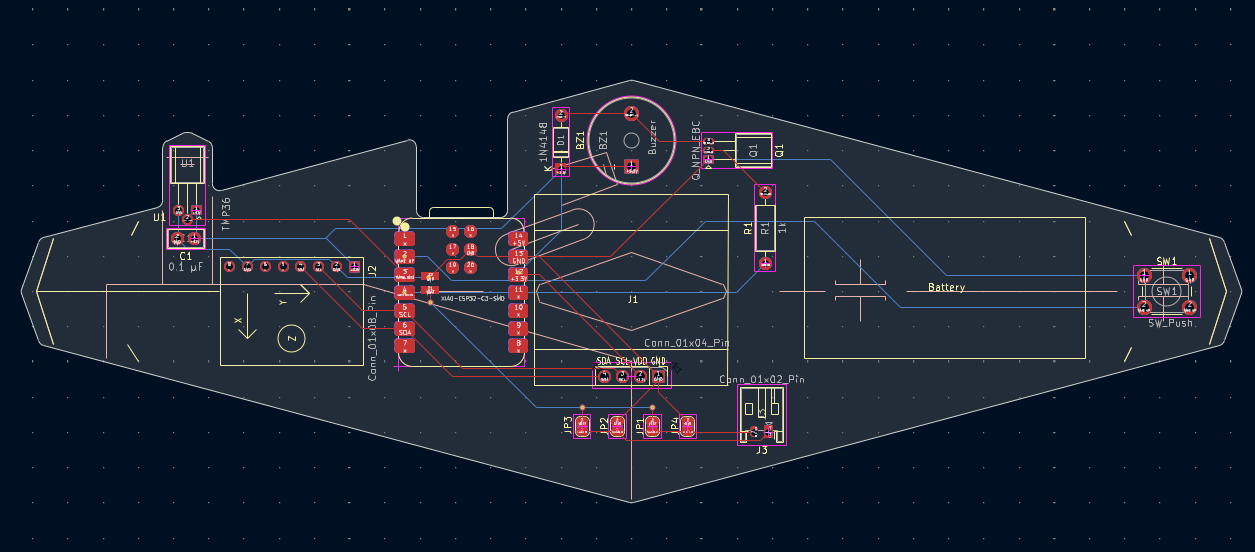
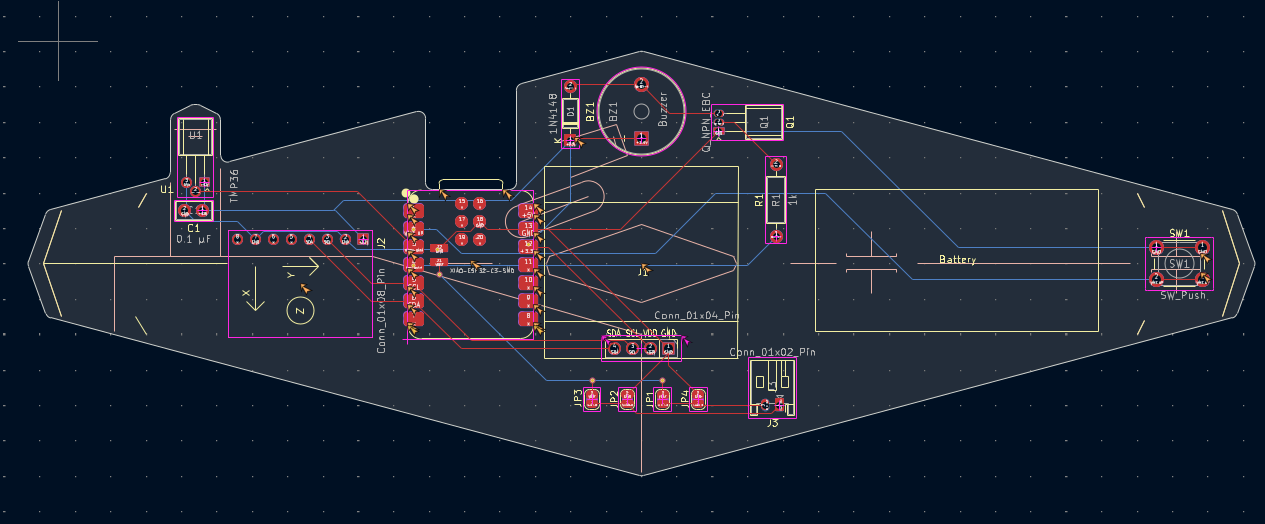
added assmebling to read me, fixed pcb

diff --git a/README.md b/README.md
@@ -1,6 +1,6 @@
 This is a PCB based on TA-TA from the game Arknight endfields. Designed to be a simple digital pet. This was made for week 1 of hackclub half-life, and I choose to make TA-TA because the beginner project was a digital pet and I just thought TA-TA was a pretty cool and cute character.
 
-![Screen simulation](images\image.png)
+![Screen simulation](images/image.png)
 
 ## Features
 
@@ -23,7 +23,37 @@ The firmware can be flashed by downloading the firmware folder, opening as an es
 replace PORT with the COM number of the esp if you're on windows, or the port on mac or linux.
 
 
+## Assembling
 
+Components just need to be soldered onto the pcb. The following sections can be done in any order:
+
+### Microcontroller:
+The Xiao ESP32 C3 is soldered onto the only component spot with surface mounts, the "pins" of the MCU should match the SMD pads on the PCB and the silkscreen
+
+### Power button:
+Solder the push button in the correct orientation based on the silkscreen at SW1, right side of the PCB
+
+### Temperature sensor
+Put the THT pins of the TMP36 through the holes next to U1 at the top left of the PCB, and bend it and solder it according to the silk screen.
+
+A 0.1uF ceramic capacitor should be soldered at C1 directly underneath the TMP36
+
+### IMU
+If the MPU6050 did not come with header pins, solder headerpins onto the breakout board, make sure the spacers are at the bottom.
+Solder the pins to J2 on the left of the microcontroller
+
+### Buzzer
+Solder the diode at D1, at the top of the PCB, make sure the direction of the diode (the white line) matches that of the silk screen
+
+The transistor is soldered at the 3 THT holes at Q1, make sure the emitter is soldered to pin 1, the only hole among the 3 with a square pad.
+
+A 1k resistor is soldered at R1, right below the transistor
+
+Finally solder the buzzer at BZ1, with the anode at pin one (the hole with the square pad)
+
+### Battery
+the battery shouldn't be soldered but instead secured through any means such as double sided tape.
+before connecting the battery to the jst connector, confirm the polarity of the battery, **look from the orientation where the buzzer would be at the top**. If when plugged in, the voltage source is on the right and gnd is on the left, nothing needs to be done, if its the reverse, scratch off the 2 preconnected solder jumpers at the bottom of the PCB then join the 2 previously disconnected jumpers with solder. Now the battery can be safely plugged in.
 
 
 ## BOM
@@ -48,5 +78,6 @@ replace PORT with the COM number of the esp if you're on windows, or the port on
 
 ## PCB Wiring and Schematics
 
-![PCB wiring](images\PCB-Wiring.png)
-![PCB schematics](images\PCB-Schematics.png)
+![PCB wiring](images/PCB-Wiring.png)
+![PCB schematics](images/PCB-Schematics.png)
+![PCB 3D View](images/3D-view.png)
